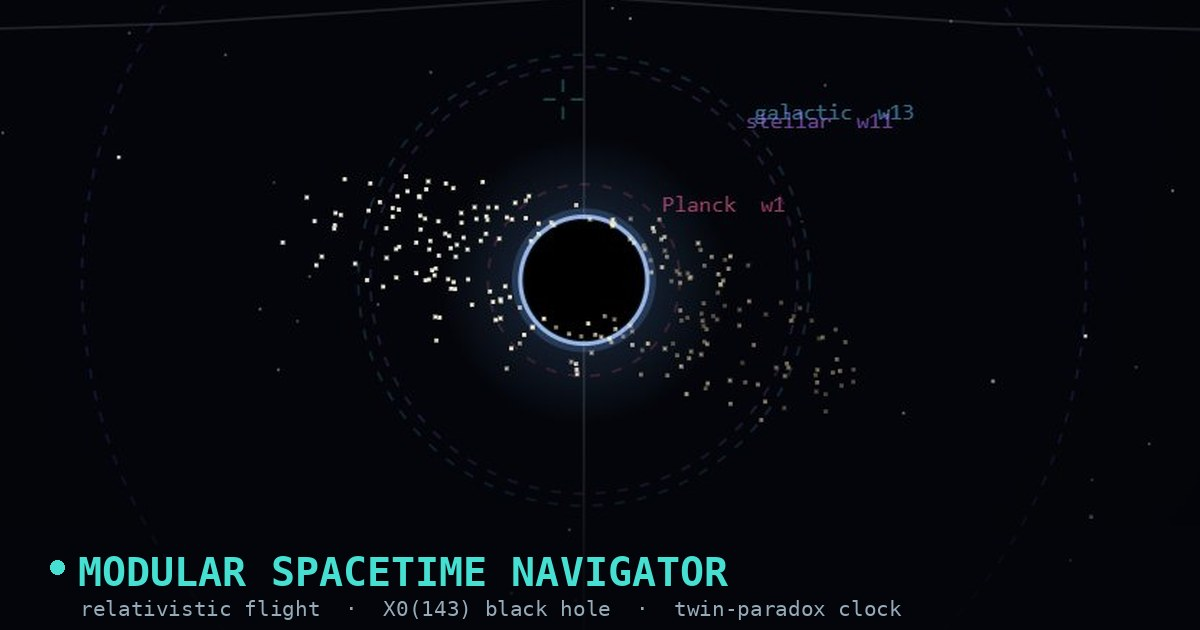
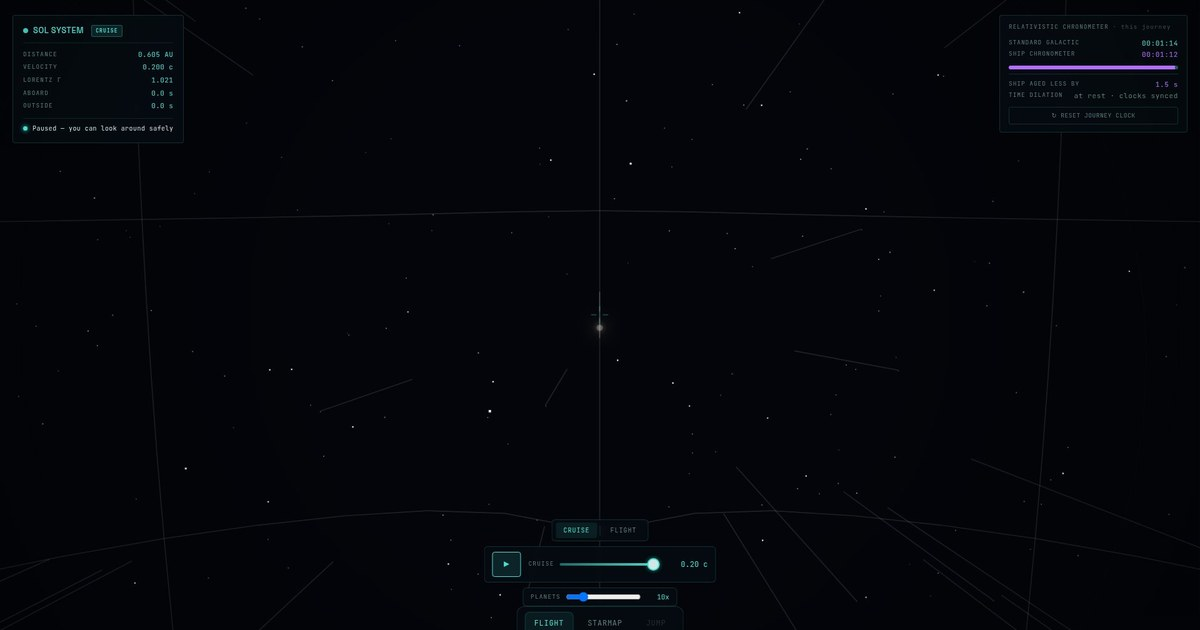
v1.04.2: real Sol-system docs, new link cover, version bump

diff --git a/index.html b/index.html
@@ -7,17 +7,17 @@
     <meta name="description" content="Relativistic flight simulator around X₀(143) with interactive 3D starmap of 59 real nearby stars and hyperjump transitions." />
     <link rel="icon" type="image/svg+xml" href="favicon.svg" />
     <meta property="og:title" content="Modular Spacetime Navigator" />
-    <meta property="og:description" content="Canvas 2D flight simulator around X₀(143) with 59-star starmap and hyperjump transitions." />
+    <meta property="og:description" content="Relativistic flight sim: cruise the real Sol system from live Kepler ephemeris, then hyperjump across a 59-star map around X₀(143)." />
     <meta property="og:type" content="website" />
     <meta property="og:url" content="https://kaizoku-ronin.github.io/Modular-Spacetime-Navigator/" />
-    <meta property="og:image" content="https://github.com/Kaizoku-Ronin/Modular-Spacetime-Navigator/raw/main/public/og-image.jpg" />
+    <meta property="og:image" content="https://github.com/Kaizoku-Ronin/Modular-Spacetime-Navigator/raw/main/public/og-image.jpg?v=1.04.2" />
     <meta property="og:image:type" content="image/jpeg" />
     <meta property="og:image:width" content="1200" />
     <meta property="og:image:height" content="630" />
     <meta name="twitter:card" content="summary_large_image" />
     <meta name="twitter:title" content="Modular Spacetime Navigator" />
-    <meta name="twitter:description" content="Relativistic flight around the X₀(143) black hole — real-star 3D starmap, hyperjumps, and a twin-paradox clock." />
-    <meta name="twitter:image" content="https://github.com/Kaizoku-Ronin/Modular-Spacetime-Navigator/raw/main/public/og-image.jpg" />
+    <meta name="twitter:description" content="Cruise the real Sol system (live Kepler ephemeris), then hyperjump across a 59-star map around X₀(143). Twin-paradox clock included." />
+    <meta name="twitter:image" content="https://github.com/Kaizoku-Ronin/Modular-Spacetime-Navigator/raw/main/public/og-image.jpg?v=1.04.2" />
   </head>
   <body>
     <div id="root"></div>

diff --git a/README.md b/README.md
@@ -4,15 +4,22 @@
 
 An interactive, relativistically-correct flight simulator built around MTFT's
 X₀(143) black hole, extended with a real nearby-star catalog, a 3D starmap, and
-hyperjumps between per-star flight systems.
+hyperjumps between per-star flight systems. The **Sol** system renders the actual
+planets — positions computed live from J2000 Keplerian ephemeris — at true scale.
 
-Three modes: **Flight** (1-AU scene around a system's black hole), **Starmap**
-(3D catalog + hyperspace lanes), and **Hyperjump** (warp transition).
+Three modes: **Flight** (in Sol, cruise the real solar system; every other star
+is a 1-AU black-hole scene), **Starmap** (3D catalog + hyperspace lanes), and
+**Hyperjump** (warp transition).
 
 Works on desktop and touch devices. **Desktop:** drag to steer, scroll or the
 on-screen slider for speed, `Space` to pause, `Tab` to switch modes, `R` to
 reset. **Mobile:** drag to steer, on-screen pause + speed controls, tap the bar
 to switch modes, pinch the starmap to zoom.
+
+Speed has two modes: **Cruise** (0.001–0.2c, for realistic solar-system transit)
+and **Flight** (0.25–0.99c, full relativistic regime). In Sol, a **planet-size
+slider** (1–50×) magnifies the otherwise true-scale — and therefore tiny —
+planets so you can pick them out as you cross the system.
 
 ## Run
 
@@ -32,10 +39,13 @@ Requires Node 18+. No backend — this is a static single-player app.
 src/
   canvas/          imperative canvas renderers (rAF loops)
     flightRenderer.ts    relativistic flight sim (aberration/Doppler/beaming)
+    solarRenderer.ts     real Sol system drawn into the flight camera (Sol only)
     starmapRenderer.ts   3D star + lane map (orbit camera)
     jumpRenderer.ts      hyperjump warp transition
   components/      hand-rolled UI (no component library) + chart widgets
-  data/starData.ts loads public/{stars,lanes}.json into typed records
+  data/
+    starData.ts    loads public/{stars,lanes}.json into typed records
+    solarSystem.ts J2000 Keplerian ephemeris — 8 planets + dwarfs (Sol only)
   lib/
     math3d.ts      vec3 + projection (shared with the original HTML sim)
     colors.ts      spectral colors, Doppler ramp, and the canonical CUSP_COLORS
@@ -61,8 +71,22 @@ galactic time leaves your ship clock ~17 s behind. See `lib/clock.ts` +
 `components/Chronometer.tsx`. Reset it from the panel (it's independent of the
 flight `R` reset, which only repositions you).
 
+**The Sol system (real data).** When the current star is Sol, the flight scene
+swaps the black hole for the actual solar system. Planet positions are computed
+each frame from J2000 Keplerian elements plus their century rates (Standish),
+solved through Kepler's equation — so the layout matches the real sky for today's
+date (Earth lands at ~1.016 AU and its true heliocentric longitude). Radii are
+true-scale and the Sun's color comes from a 5778 K blackbody, which is exactly
+why the planets read as faint dots until you fly close or raise the size slider:
+the emptiness is the point. The same exact SR optics still apply, and because you
+move at a *true* fraction of c, crossing even 1 AU at 0.2c takes a realistically
+long time.
+
 **Tuned for playability (not physical), and labeled as such in code:**
 - Gravity bends heading but holds your chosen cruise speed (arcade flight).
+- In **Sol**, a bounded gravity *sway* gently leans the camera toward the nearest
+  mass — it's a settling positional offset, never a velocity, so it can't
+  accumulate into a crash.
 - Per-system horizon radius scales as `cbrt(mass)`, **not** the physical
   `r_s ∝ mass`, so every system in the catalog is flyable. `GM` *is* linear in
   mass (correct). See the comment in `flightRenderer.ts → initFlightState`.